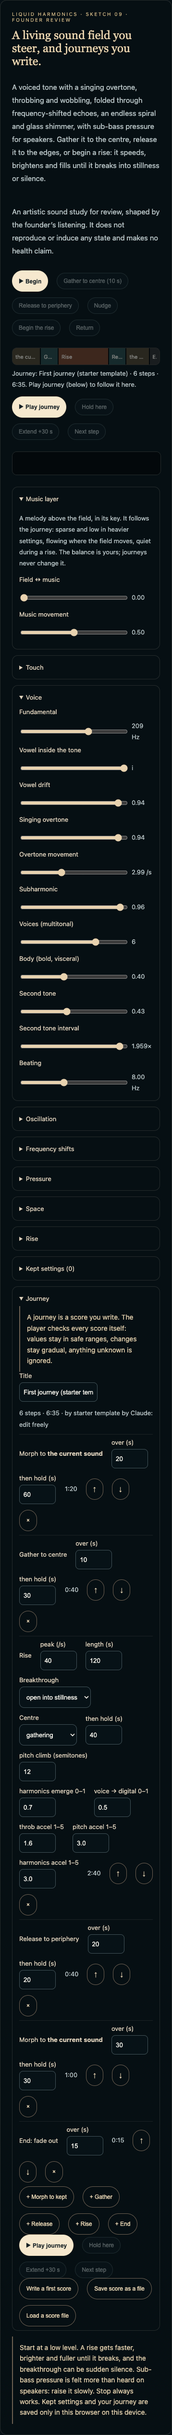
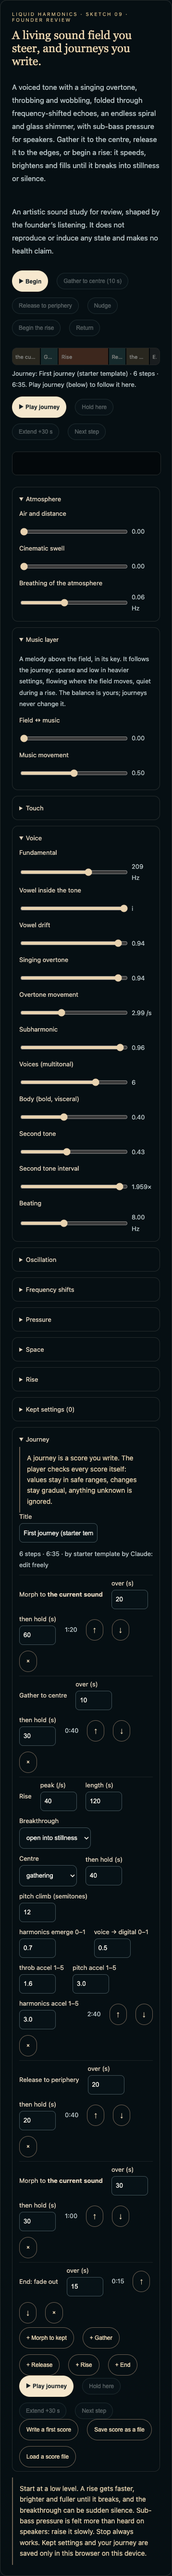
LISTEN-01: Liquid Harmonics atmosphere layer - air and cinematic swell (review-only)
Founder: 'Lets build a bit more into it. not too much, atmospheric, and transportive'.
- Air and distance: stereo pink-noise bed, two slowly sweeping bands, mostly hall.
- Cinematic swell: breathing low chord on the field's fundamental.
- Breathing rate shared; part of the field (journey-shapeable, fades/silence),
  outside the throb, never routed to touch; defaults 0 (sound unchanged).
- Unit 10/10, witness 13/13, typecheck gate clean.
Review branch only: no merge, deploy, flag or member-access change.

diff --git a/lib/listening/liquidHarmonics.ts b/lib/listening/liquidHarmonics.ts
@@ -10,7 +10,7 @@
 import type { ProceduralStudy, ProceduralStudyAPI, ProceduralStudyHandle } from './proceduralStudy';
 
 // ── Controls ──────────────────────────────────────────────────────────────────────────────────────────
-export type Group = 'Voice' | 'Oscillation' | 'Frequency shifts' | 'Rise' | 'Pressure' | 'Space' | 'Music' | 'Touch';
+export type Group = 'Voice' | 'Oscillation' | 'Frequency shifts' | 'Rise' | 'Pressure' | 'Space' | 'Atmosphere' | 'Music' | 'Touch';
 export type Control = {
   g: Group; k: string; label: string; v: number | string;
   min?: number; max?: number; step?: number; log?: boolean; unit?: string; hint?: string;
@@ -57,6 +57,9 @@ export const CONTROLS: readonly Control[] = Object.freeze([
   { g: 'Space', k: 'rotate', label: 'Rotation around you', min: 0, max: 1.5, v: 0.26, unit: 'Hz' },
   { g: 'Space', k: 'verb', label: 'Space', min: 0, max: 1.3, v: 0.94 },
   { g: 'Space', k: 'center', label: 'Periphery → centre', min: 0, max: 1, v: 0.34, hint: '0: all around you. 1: gathered to one point. Or use Gather / Release.' },
+  { g: 'Atmosphere', k: 'air', label: 'Air and distance', min: 0, max: 1, v: 0, hint: 'A soft, slowly moving wash of air far around you, like wind or distant surf.' },
+  { g: 'Atmosphere', k: 'swell', label: 'Cinematic swell', min: 0, max: 1, v: 0, hint: 'A warm low chord on the field’s own tone that slowly opens and breathes.' },
+  { g: 'Atmosphere', k: 'breath', label: 'Breathing of the atmosphere', min: 0.02, max: 0.3, v: 0.06, log: true, unit: 'Hz', hint: 'How slowly the air and the swell rise and fall (0.06 Hz is about one swell every 17 seconds).' },
   { g: 'Music', k: 'music', label: 'Field ↔ music', min: 0, max: 1, v: 0, hint: '0: the field alone. 0.5: both in full. 1: the music alone. The music stays in the key of the field and follows the journey; this balance is yours and journeys never change it.' },
   { g: 'Music', k: 'musicMove', label: 'Music movement', min: 0, max: 1, v: 0.5, hint: 'Sparse single notes ↔ flowing phrases.' },
   { g: 'Touch', k: 'touch', label: 'Touch level (preview)', min: 0, max: 1, v: 0, hint: 'Phase 1: touch is computed and measured here, not sent to any device. Starts at 0, fades in over about 3 seconds, and journeys never change it.' },
@@ -145,6 +148,20 @@ export function musicDensity(P: Params, phase: string): number {
   const base = (0.25 + 1.25 * n('musicMove')) * (0.6 + 0.6 * motion);
   return base * (phase === 'rising' ? 0.35 : phase === 'after' ? 0.5 : 1);
 }
+
+// ── Atmosphere (pure, tested): a pink-noise air bed and a breathing chord ──
+/** Pink-ish noise (Paul Kellet's economy filter), scaled to stay within ±1. Deterministic for a given seed. */
+export function pinkNoise(n: number, seed = 1): Float32Array<ArrayBuffer> {
+  const out = new Float32Array(n); let s = seed >>> 0 || 1, b0 = 0, b1 = 0, b2 = 0;
+  for (let i = 0; i < n; i++) {
+    s = (s * 1664525 + 1013904223) >>> 0; const w = s / 4294967296 * 2 - 1;
+    b0 = 0.99765 * b0 + w * 0.099046; b1 = 0.963 * b1 + w * 0.2965164; b2 = 0.57 * b2 + w * 1.0526913;
+    out[i] = Math.max(-1, Math.min(1, (b0 + b1 + b2 + w * 0.1848) * 0.2));
+  }
+  return out;
+}
+/** The swell's chord on the field's fundamental: root an octave down, fifth, root, and the fifth above. */
+export const swellChord = (f0: number) => [f0 / 2, f0 * 0.75, f0, f0 * 1.5];
 
 // ── Touch (pure, tested): four tactile channels derived from the field, never from the music ──
 // Design brief 2026-11-22 (founder: "Yes, start Phase 1"). Phase 1 computes and measures touch only; no device output.
@@ -370,6 +387,24 @@ export function createLiquidEngine(ctx: AudioContext, destination: AudioNode, pa
   const mDl = keep(ctx.createDelay(1)); mDl.delayTime.value = 0.37; const mFb = gain(0.32), mLp = biquad('lowpass', 2600), mEcho = gain(0.35);
   musicIn.connect(mDl); mDl.connect(mLp); mLp.connect(mFb); mFb.connect(mDl); mLp.connect(mEcho); mEcho.connect(musicDuck);
   const mCv = keep(ctx.createConvolver()); mCv.buffer = ir; const mVerb = gain(0.45); musicIn.connect(mVerb); mVerb.connect(mCv); mCv.connect(musicDuck);
+  // ── Atmosphere: part of the field (journeys can shape it), never part of touch. It sits outside the throb, so it
+  // stays still and wide while the voice pulses; most of it goes to the hall for distance.
+  const nb = ctx.createBuffer(2, Math.floor(sr * 8), sr); nb.copyToChannel(pinkNoise(nb.length, 7), 0); nb.copyToChannel(pinkNoise(nb.length, 11), 1);
+  const airSrc = ctx.createBufferSource(); airSrc.buffer = nb; airSrc.loop = true;
+  const airSplit = keep(ctx.createChannelSplitter(2)), airMerge = keep(ctx.createChannelMerger(2)), airG = gain(0), airBr = gain(0.5);
+  airSrc.connect(airSplit);
+  const breath = osc(num('breath')), breathD = gain(0.35); breath.connect(breathD); breathD.connect(airBr.gain);
+  const airBands = [0, 1].map(ch => {
+    const bp = biquad('bandpass', 700, 0.9), lp = biquad('lowpass', 4500), sweep = osc(num('breath') * (ch ? 0.83 : 1.21)), sweepD = gain(450);
+    sweep.connect(sweepD); sweepD.connect(bp.frequency); airSplit.connect(bp, ch); bp.connect(lp); lp.connect(airMerge, 0, ch); return { sweep };
+  });
+  airMerge.connect(airBr); airBr.connect(airG); airG.connect(fieldBus); const airVerb = gain(0); airG.connect(airVerb); airVerb.connect(cv);
+  const swellG = gain(0), swellLp = biquad('lowpass', 700, 0.8), swellBr = gain(0.5), swellOsc = swellChord(f0).map((f, i) => {
+    const o = osc(f, i % 2 ? 'triangle' : 'sawtooth'), g = gain(i === 0 ? 0.32 : 0.2); o.detune.value = (i - 1.5) * 4; o.connect(g); g.connect(swellLp); return o;
+  });
+  const swellLfo = osc(num('breath') * 0.7), swellCut = gain(500), swellAmp = gain(0.4);
+  swellLfo.connect(swellCut); swellCut.connect(swellLp.frequency); swellLfo.connect(swellAmp); swellAmp.connect(swellBr.gain);
+  swellLp.connect(swellBr); swellBr.connect(swellG); swellG.connect(fieldBus); const swellVerb = gain(0); swellG.connect(swellVerb); swellVerb.connect(cv);
 
   const apply = (now = false) => {
     const t = ctx.currentTime, k = now ? 0.01 : 0.08, set = (param: AudioParam, v: number) => param.setTargetAtTime(v, t, k);
@@ -388,6 +423,11 @@ export function createLiquidEngine(ctx: AudioContext, destination: AudioNode, pa
     set(drive.gain, 1 + num('body') * 5); set(driveOut.gain, 1 / (1 + num('body') * 1.6));
     set(binL.frequency, F * 2); set(binR.frequency, F * 2 + Math.min(45, rate)); set(binG.gain, num('binaural') * 0.12 * (0.6 + 0.4 * center));
     set(spG.gain, num('spiral'));
+    const air = num('air'), sw = num('swell'), br = num('breath');
+    set(airG.gain, air * 0.55); set(airVerb.gain, air * 0.9); set(breath.frequency, br);
+    airBands.forEach((b, ch) => set(b.sweep.frequency, br * (ch ? 0.83 : 1.21)));
+    set(swellG.gain, sw * 0.35); set(swellVerb.gain, sw * 0.7); set(swellLfo.frequency, br * 0.7);
+    swellChord(F).forEach((f, i) => set(swellOsc[i].frequency, f));
     set(pO.frequency, num('pressF')); set(pL.frequency, num('pressRate') + (rate - num('pressRate')) * num('pressLink')); set(pG.gain, num('press') * 0.6);
     const T = TOUCH_LIMITS.fadeTau;
     tLevel.gain.setTargetAtTime(num('touch'), t, T);
@@ -531,7 +571,7 @@ export function createLiquidEngine(ctx: AudioContext, destination: AudioNode, pa
     }
   }, TICK_MS);
 
-  srcs.forEach(o => o.start());
+  srcs.forEach(o => o.start()); airSrc.start();
   apply(true);
   fadePresence(1, 2);
 
@@ -600,7 +640,8 @@ export function createLiquidEngine(ctx: AudioContext, destination: AudioNode, pa
     dispose: () => {
       if (disposed) return;
       disposed = true; clearInterval(interval); J = null; tween = null;
-      for (const o of srcs) { try { o.stop(); } catch { /* already stopped */ } }
+      for (const o of [...srcs, airSrc]) { try { o.stop(); } catch { /* already stopped */ } }
+      try { airSrc.disconnect(); } catch { /* gone */ }
       for (const n of nodes) { try { n.disconnect(); } catch { /* gone */ } }
     },
   };

diff --git a/app/listen/LiquidHarmonicsDesk.tsx b/app/listen/LiquidHarmonicsDesk.tsx
@@ -22,7 +22,7 @@ const store = (k: string, v: unknown) => { try { localStorage.setItem(k, JSON.st
 // The engine keeps running in the player when the member moves to another view, so the desk re-attaches to it.
 const shared: { engine: LiquidEngine | null; params: Params; loaded: boolean } = { engine: null, params: { ...DEFAULT_PARAMS }, loaded: false };
 
-const GROUPS = ['Music', 'Touch', 'Voice', 'Oscillation', 'Frequency shifts', 'Pressure', 'Space', 'Rise'] as const;
+const GROUPS = ['Atmosphere', 'Music', 'Touch', 'Voice', 'Oscillation', 'Frequency shifts', 'Pressure', 'Space', 'Rise'] as const;
 const mmss = (x: number) => `${Math.floor(x / 60)}:${String(Math.floor(x % 60)).padStart(2, '0')}`;
 const stepLabel = (st: Step) => st.type === 'morph' ? st.name : st.type === 'end' ? 'End' : st.type[0].toUpperCase() + st.type.slice(1);
 
@@ -253,7 +253,7 @@ export default function LiquidHarmonicsDesk() {
       <canvas ref={canvas} width={720} height={110} className={styles.liquidSpectrum} aria-label="Spectrum of the sound, low to high" />
 
       {GROUPS.map(g => (
-        <details className={styles.orbitDetails} key={g} open={g === 'Voice' || g === 'Music'} data-liquid-group={g}>
+        <details className={styles.orbitDetails} key={g} open={g === 'Voice' || g === 'Music' || g === 'Atmosphere'} data-liquid-group={g}>
           <summary>{g === 'Music' ? 'Music layer' : g}</summary>
           {g === 'Touch' && <>
             <p className={styles.muted} data-liquid-touch-note="true">

diff --git a/docs/design/contracts/sound-studio-liquid-harmonics.md b/docs/design/contracts/sound-studio-liquid-harmonics.md
@@ -54,6 +54,13 @@ experience_verification: >
   - Unit tests 9/9: carrier 40–120 Hz; rate cap 20/s; the curve never exceeds the 0.5 ceiling; no music node
     connects to touch; touch is not routed to any output.
   - Preview only. No device, transducer or body.
+  2026-11-22 atmosphere (founder: "Lets build a bit more into it. not too much, atmospheric, and transportive"):
+  - Witness 13/13: the air and swell controls act on the running engine; with both at 0.8 the silence breakthrough
+    still measures energy 0.
+  - Unit tests 10/10: the noise is bounded and deterministic; the swell chord is on the field's own fundamental;
+    journeys may shape the atmosphere within range; no atmosphere node feeds touch.
+  - Level under the Spiral's Arrival settings: −19.3 dB RMS without atmosphere; −17.6 with air 0.8; −16.4 with
+    swell 0.8. These are 5-second windows of a slowly breathing layer, so they are approximate. Felt effect not witnessed.
 ---
 
 # Sound Studio / Liquid Harmonics — Experience Contract
@@ -84,6 +91,21 @@ A timeline sits under Begin and Play. It has one band per step, each as wide as 
 - Hold, Extend and Next change how long a step actually takes, and the band stretches or shrinks to match.
 
 The band itself is not a control. Right under it are the four journey controls: Play journey, Hold here, Extend +30 s and Next step. They are the same controls as at the foot of the Journey panel, so a journey can be followed and steered without scrolling. While a journey plays, both Play buttons read "Journey playing" and are visibly greyed; during a rise, Hold, Extend and Next are greyed in both places. The playhead's motion respects reduced-motion settings.
+
+## Atmosphere
+
+Two quiet, cinematic layers sit inside the field, outside the throb, so they stay wide and still while the voice pulses:
+- **Air and distance:** a soft wash of pink noise in two independently sweeping bands, like wind or far surf, sent mostly to the hall.
+- **Cinematic swell:** a warm low chord on the field's own tone (an octave below, a fourth below, the root, a fifth above) whose filter slowly opens and closes.
+
+**Breathing** sets how slowly both rise and fall; the default is about one swell every 17 seconds.
+
+Because the atmosphere is part of the field:
+- journeys can shape it, within its ranges;
+- the field ↔ music balance and the presence apply to it, so it falls silent with a silence breakthrough;
+- it never reaches touch.
+
+It is inspired by long-form atmospheric listening, but borrows no recordings, scripts, level names or methods from any existing program, and makes no claim.
 
 ## Music layer
 
